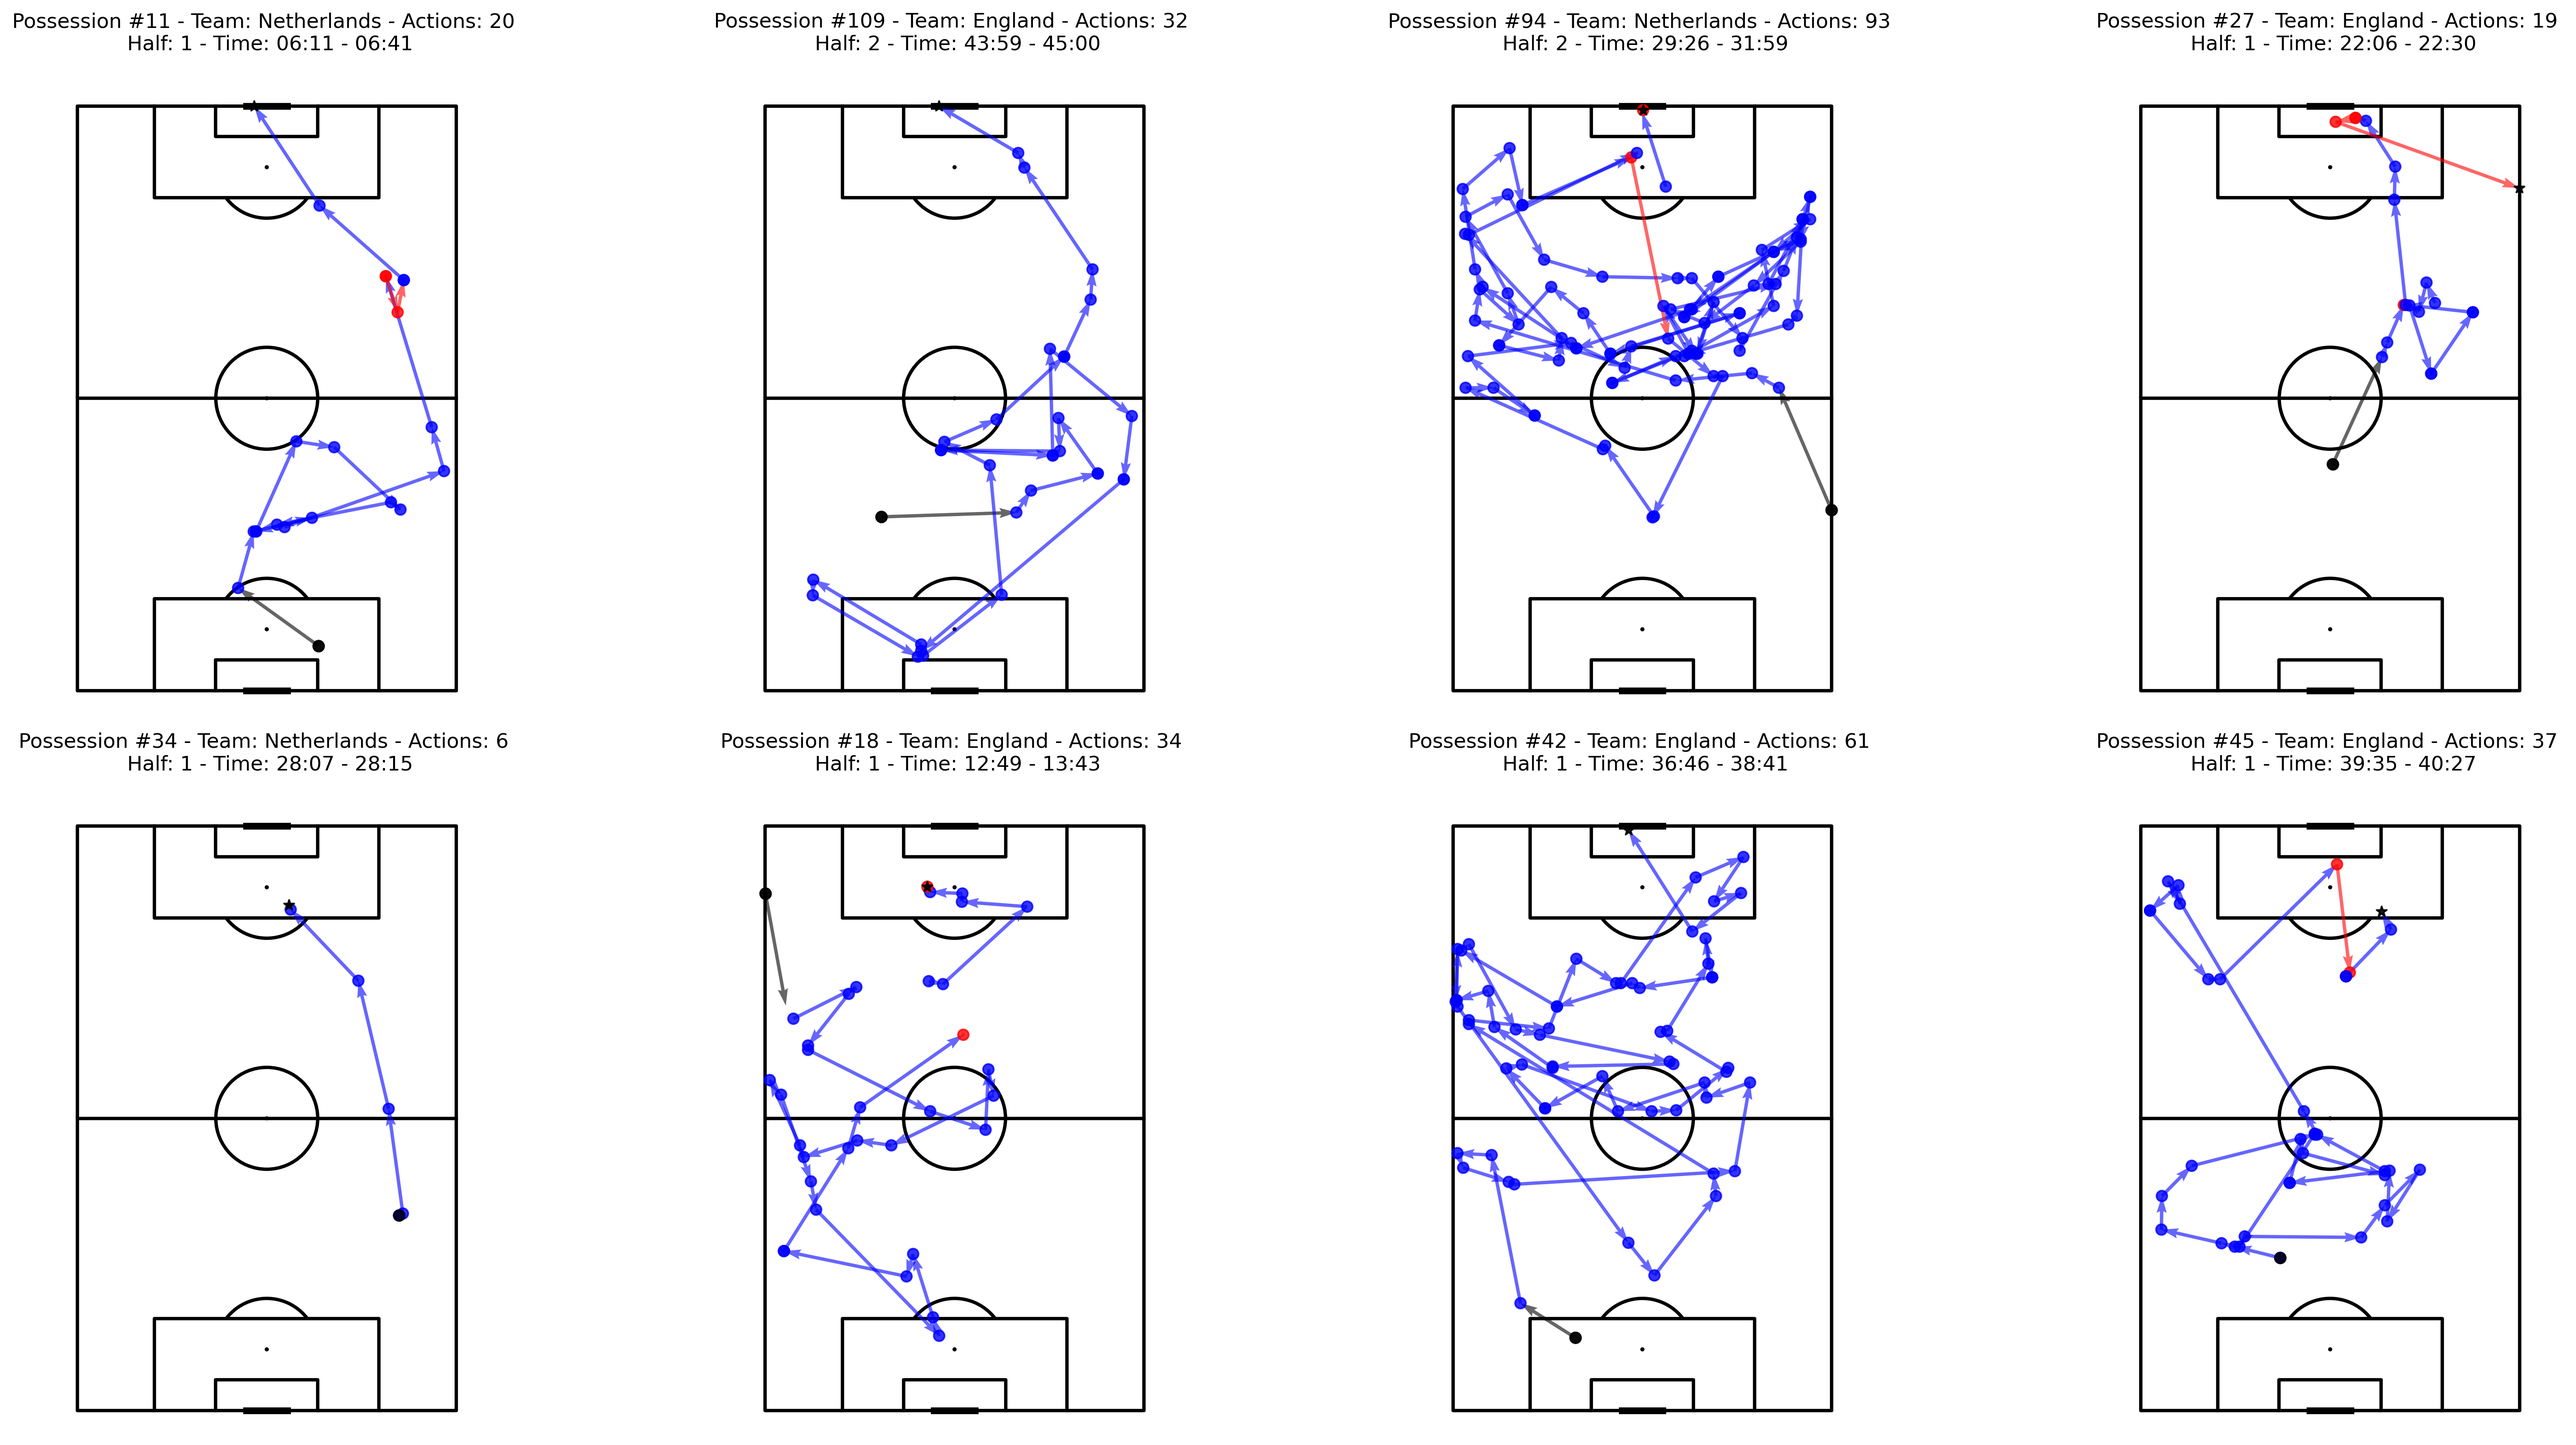
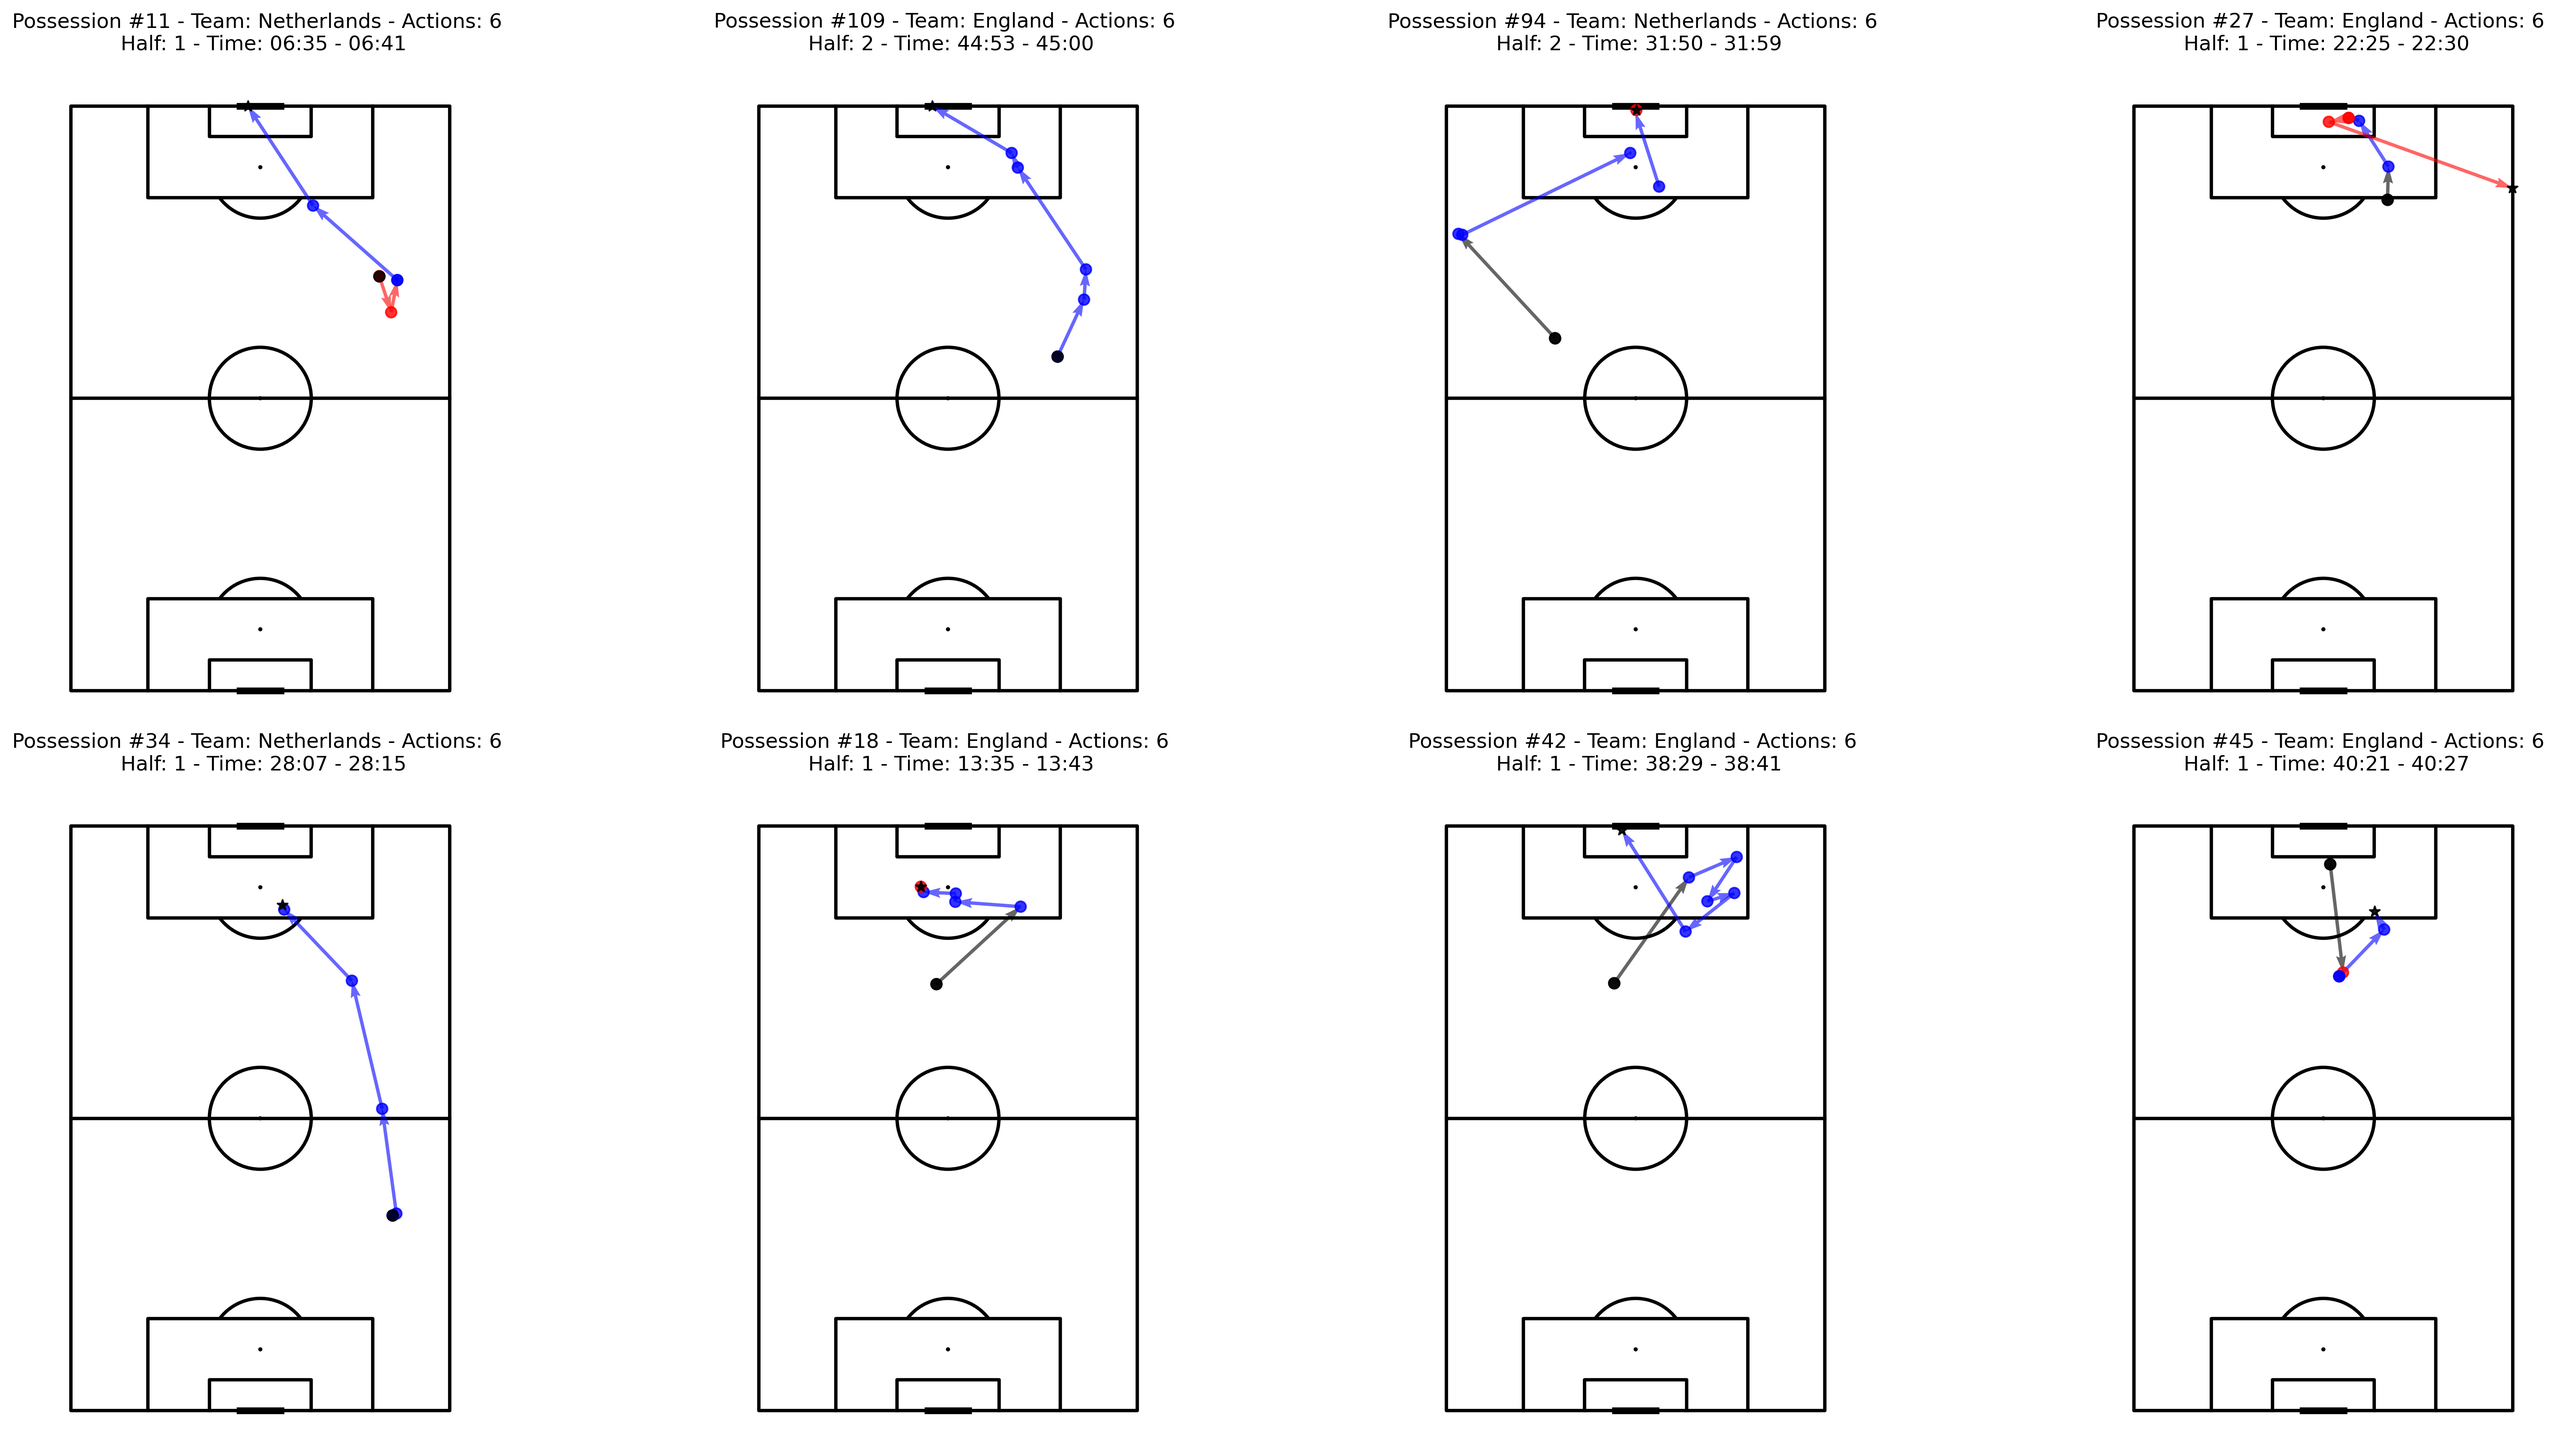
feat: update possession extraction to include team IDs and enhance visualization with team names

diff --git a/src/ml/preprocessing/possessions_extraction.py b/src/ml/preprocessing/possessions_extraction.py
@@ -13,10 +13,10 @@ pd.set_option('display.width', 1000)
 pd.set_option('display.max_rows', None)
 pd.set_option('display.max_columns', None)
 
-
 """
 type_id 11: shot, 12: shot_penalty, 13: shot_freekick
 """
+
 
 def extract_actions_from_events(game: pd.Series, events_df: pd.DataFrame) -> pd.DataFrame:
     actions = spadl.statsbomb.convert_to_actions(events_df, game['home_team_id'], xy_fidelity_version=2)
@@ -27,7 +27,7 @@ def extract_actions_from_events(game: pd.Series, events_df: pd.DataFrame) -> pd.
 def enrich_actions_with_event_data(actions: pd.DataFrame, events: pd.DataFrame) -> pd.DataFrame:
     events['xG'] = calculate_xg_values(events)
     cols_to_use = ['event_id', 'team_name', 'player_name', 'possession', 'type_name',
-                   'duration', 'under_pressure', 'counterpress', 'xG']
+                   'duration', 'under_pressure', 'counterpress', 'xG', 'possession_team_id', 'possession_team_name']
     return (
         actions
         .assign(original_event_id=lambda x: x['original_event_id'].bfill())
@@ -73,3 +73,7 @@ def extract_possessions_ended_with_shots(game: pd.Series, events: pd.DataFrame) 
 def extract_possessions_ended_with_goals(game: pd.Series, events: pd.DataFrame) -> dict[int, pd.DataFrame]:
     possessions = extract_possessions(game, events)
     return {pid: df for pid, df in possessions.items() if df.iloc[-1]['type_id'] in [11, 12, 13] and df.iloc[-1]['result_id'] == 1}
+
+
+def tail_dataframes_to_sequence_length(dataframes: list[pd.DataFrame], n: int) -> list[pd.DataFrame]:
+    return [df.tail(n) for df in dataframes]

diff --git a/src/analysis/visualization.py b/src/analysis/visualization.py
@@ -27,7 +27,8 @@ def plot_possession_actions(possession_actions: pd.DataFrame, ax=None, figsize: 
         fig = None
 
     # Get team and color information
-    team_name = possession_actions.iloc[0]['team_name']
+    possession_team_id = possession_actions.iloc[0]['possession_team_id']
+    possession_team_name = possession_actions.iloc[0]['possession_team_name']
 
     # Separate arrays for scatter plot
     start_xs = []
@@ -49,7 +50,7 @@ def plot_possession_actions(possession_actions: pd.DataFrame, ax=None, figsize: 
         # Determine color: black for first action, blue for possessing team, red for opponent
         if idx == 0:
             color = 'black'
-        elif action['team_name'] == team_name:
+        elif action['team_id'] == possession_team_id:
             color = 'blue'
         else:
             color = 'red'
@@ -103,7 +104,7 @@ def plot_possession_actions(possession_actions: pd.DataFrame, ax=None, figsize: 
     time_end_formatted = f"{time_end_seconds // 60:02d}:{time_end_seconds % 60:02d}"
 
     ax.set_title(
-        f"Possession #{first_action['possession']} - Team: {team_name} - Actions: {possession_length} \n Half: {period_id} - Time: {time_start_formatted} - {time_end_formatted}",
+        f"Possession #{first_action['possession']} - Team: {possession_team_name} - Actions: {possession_length} \n Half: {period_id} - Time: {time_start_formatted} - {time_end_formatted}",
         fontsize=12, fontweight='normal', pad=20
     )
 

diff --git a/analyze_match.py b/analyze_match.py
@@ -9,7 +9,7 @@ from src.analysis.game_utils import game_summary
 from src.analysis.visualization import plot_multiple_possessions
 from src.data.data_loader import load_socceraction_match
 from src.ml.models.attention_lstm import AttentionLayer
-from src.ml.preprocessing.possessions_extraction import extract_possessions
+from src.ml.preprocessing.possessions_extraction import extract_possessions, tail_dataframes_to_sequence_length
 from src.ml.preprocessing.sequence import SequencePreprocessor
 from src.ml.xthreat import get_default_xt_model
 
@@ -63,6 +63,7 @@ def analyze_match_actions(match_id: int, competition_id: int = 55, season_id: in
     print("=" * 50)
 
     top_possessions = [extract_possessions(match, events)[p_ids[idx]] for idx in top_indices]
+    top_possessions = tail_dataframes_to_sequence_length(top_possessions, config.SEQUENCE_LENGTH)
     fig = plot_multiple_possessions(top_possessions)
     fig.savefig('data/plot/possessions_best_lstm_attention.png', dpi=300, bbox_inches='tight')
     plt.show()
